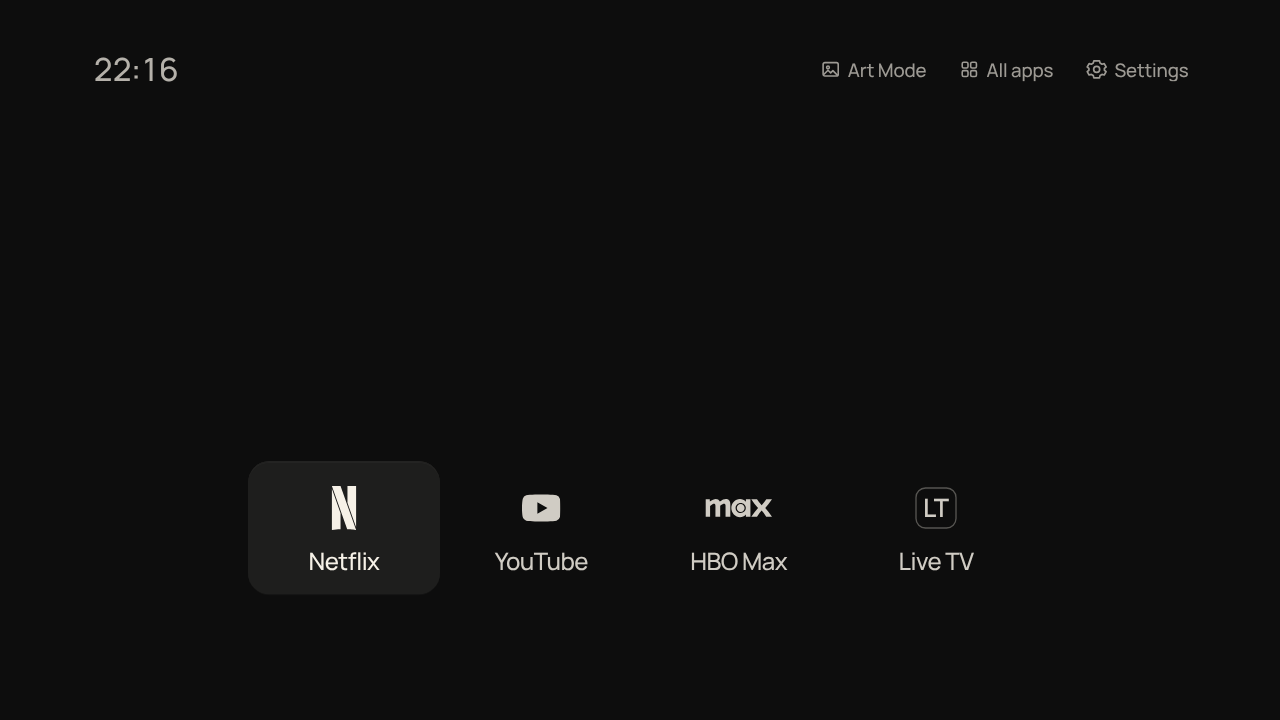
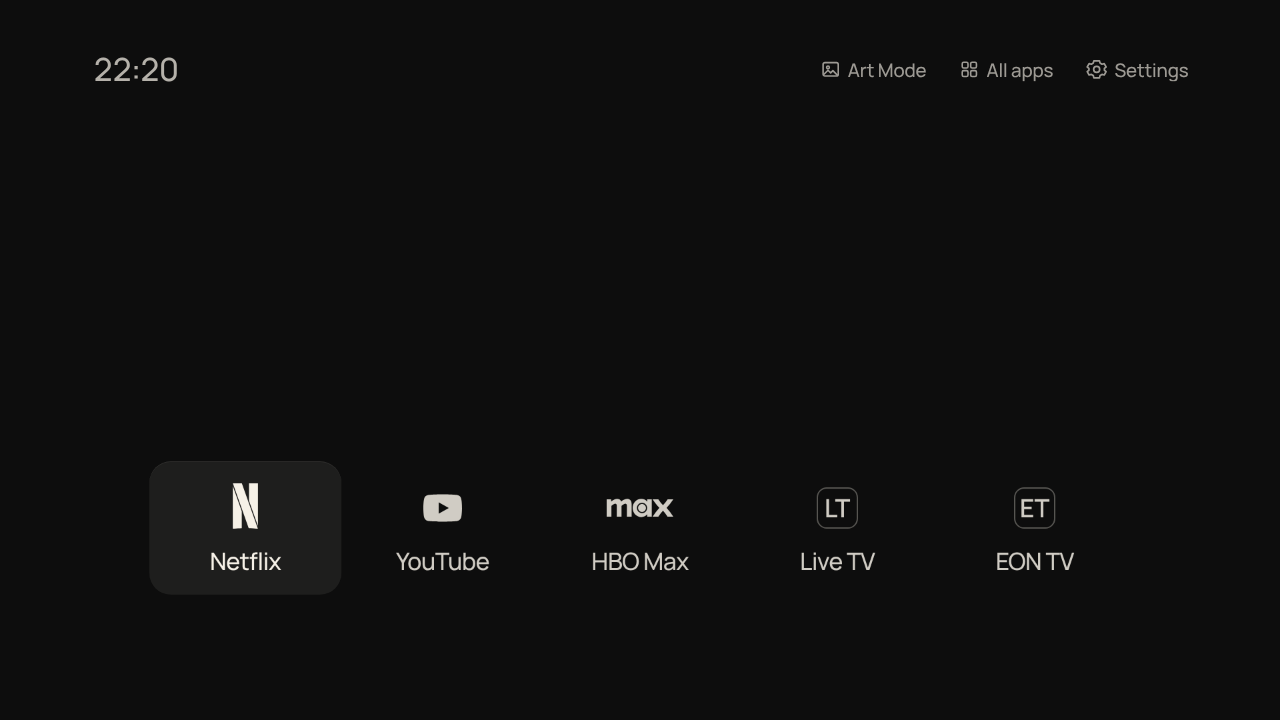
Add EON TV to Dock and restore original animations
- profile.js: EON TV after Live TV with placeholder ID unverified.EONTV
  (no public Tizen ID found; replace via All apps on the TV).
- Remove the lowMotion mode entirely; style.css is identical to upstream
  and REDUCED_MOTION again follows only the system preference.
- check:profile now verifies five Dock apps and original animations;
  screenshots and Croatian notes updated. Samsung Home/store untouched.

Claude-Session: https://claude.ai/code/session_01VejbQkSJgbmfUwo7jBZscL

diff --git a/app/profile.js b/app/profile.js
@@ -4,25 +4,26 @@
    - home/apps/look seed the very first launch only. Once preferences are
      saved under cleanframe.home.v1 they win, and the normal migration and
      validation in main.js still apply to every value below.
-   - clock and lowMotion are display options and apply on every launch. */
+   - clock is a display option and applies on every launch.
+   Animations and effects are unchanged from upstream. */
 (function () {
   'use strict';
   window.CleanFrameProfile = {
     // Dock order, first is selected. Known IDs reuse the built-in catalogue.
-    home: ['netflix', 'youtube', '5b8c3eb16b.BeamCTVDev', 'org.tizen.tv-viewer'],
+    home: ['netflix', 'youtube', '5b8c3eb16b.BeamCTVDev', 'org.tizen.tv-viewer', 'unverified.EONTV'],
     // Apps outside the built-in catalogue, in the saved appRecords shape.
     apps: [
       // HBO Max: the ID device.js already maps to the hbomax brand mark.
       { id: '5b8c3eb16b.BeamCTVDev', appId: '5b8c3eb16b.BeamCTVDev', name: 'HBO Max', brand: 'hbomax' },
       // Live TV: UNVERIFIED native ID. Confirm through All apps on this TV;
       // a wrong ID shows a real launch error, never a simulated success.
-      { id: 'org.tizen.tv-viewer', appId: 'org.tizen.tv-viewer', name: 'Live TV', brand: '' }
+      { id: 'org.tizen.tv-viewer', appId: 'org.tizen.tv-viewer', name: 'Live TV', brand: '' },
+      // EON TV (United Group): PLACEHOLDER ID, no public Tizen ID found.
+      // Replace it via All apps -> Apps on Home on the TV, which uses the real ID.
+      { id: 'unverified.EONTV', appId: 'unverified.EONTV', name: 'EON TV', brand: '' }
     ],
     look: { bg: 'dark', layout: 'dock' },
     // '24h' or '12h'
-    clock: '24h',
-    // Older/slower TV: no animated movement or scaling, no text shadows,
-    // fewer compositor layers. Focus stays visible through opacity/plates.
-    lowMotion: true
+    clock: '24h'
   };
 }());

diff --git a/app/style.css b/app/style.css
@@ -633,11 +633,3 @@ html,body{width:100%;height:100%;overflow:hidden;background:#000}
 .l-list .quiet-utils.is-text .u-content>*+*{margin-left:0;margin-right:0}
 .quiet-utils.is-text .u-content>*+*{margin-left:0}
 .l-list .quiet-utils.is-text .u .u-content>*+*{margin-right:0}
-
-/* profile.js lowMotion: the reduced-motion rules for an older, slower TV,
-   plus fewer paint/compositor costs. Focus feedback remains via opacity. */
-.cf-low-motion .stage,.cf-low-motion .stage *{transition:none!important;animation:none!important;text-shadow:none!important;will-change:auto!important}
-.cf-low-motion .tile .mark,.cf-low-motion .tile .label,.cf-low-motion .gt .mark{transform:none!important;animation:none!important}
-.cf-low-motion .l-list .ph-row,.cf-low-motion .l-list .ph-group,.cf-low-motion .l-list .ph-rows,.cf-low-motion .l-list .ph-plate,.cf-low-motion .l-list .ph-field,.cf-low-motion .l-list .ph-action,.cf-low-motion .quiet-utils .u,.cf-low-motion .quiet-utils .u::after,.cf-low-motion .util-focus-label{transition:opacity 120ms linear!important}
-.cf-low-motion .panel-content,.cf-low-motion .ph-group,.cf-low-motion .tile-content,.cf-low-motion .u-content,.cf-low-motion .util-focus-label,.cf-low-motion .quiet-utils .u .ico{transform:none!important}
-.cf-low-motion .tile-content{transition:opacity 120ms linear!important}

diff --git a/app/main.js b/app/main.js
@@ -71,9 +71,8 @@
 
   /* ---------- State ---------- */
   var PROFILE = window.CleanFrameProfile && typeof window.CleanFrameProfile === 'object' ? window.CleanFrameProfile : {};
-  var LOW_MOTION = PROFILE.lowMotion === true, CLOCK_24 = PROFILE.clock === '24h';
-  if (LOW_MOTION) document.documentElement.className += ' cf-low-motion';
-  var REDUCED_MOTION = LOW_MOTION || !!(window.matchMedia && window.matchMedia('(prefers-reduced-motion: reduce)').matches);
+  var CLOCK_24 = PROFILE.clock === '24h';
+  var REDUCED_MOTION = !!(window.matchMedia && window.matchMedia('(prefers-reduced-motion: reduce)').matches);
   var S = {
     variant: 'B', geom: 'broad', c: null, stack: null,
     sel: null, selIdx: 0, lastUtil: 0, appsFocus: null, settingsFocus: 'background', appearanceFocus: 'bg', detailFocus: {},

diff --git a/docs/samsung-ue50au7172.md b/docs/samsung-ue50au7172.md
@@ -9,27 +9,31 @@ spojeno na TV, a Home ni postavke pokretanja nisu mijenjane.
 ## Što je promijenjeno
 
 - `app/profile.js` (ES5) sadrži sve osobne postavke:
-  - Dock: Netflix, YouTube, HBO Max, Live TV
+  - Dock: Netflix, YouTube, HBO Max, Live TV, EON TV
   - tamna pozadina, raspored Dock
   - `clock: '24h'`
-  - `lowMotion: true`
 - `main.js` koristi aplikacije i izgled iz profila **samo pri prvom
   pokretanju**, kad u `cleanframe.home.v1` nema ničeg spremljenog. Profil
   ide kroz isti `clean()` kao spremljene postavke, pa vrijede iste
   validacije i migracije. Postojeće spremljene postavke uvijek imaju
   prednost.
-- `lowMotion` uključuje postojeća reduced-motion pravila. Uz to uklanja
-  sjene teksta i `will-change` slojeve. Focus pločica i promjena
-  prozirnosti ostaju vidljive.
+- Animacije i efekti su nepromijenjeni, a `style.css` je identičan
+  originalu.
+- Samsung Home, Smart Hub i store ostaju netaknuti. CleanFrame je
+  obična aplikacija. Iz nje se vraćaš preko Back → Samsung Home ili
+  Settings → Samsung.
 
 Za povratak na upstream ponašanje u `profile.js` postavi
-`clock: '12h'` i `lowMotion: false`, ili ukloni `home`.
+`clock: '12h'` ili ukloni `home`.
 
 ## Otvoreno, provjeriti na TV-u
 
 - **Live TV ID `org.tizen.tv-viewer` nije potvrđen.** Na TV-u otvori
   All apps i ondje provjeri pravi ID. Ako je ID pogrešan, OK prikazuje
   stvarnu grešku, a ne lažni uspjeh.
+- **EON TV ID `unverified.EONTV` je privremen.** Javni Tizen ID nije
+  pronađen. Na TV-u ga zamijeni preko All apps → Apps on Home: dodaj
+  pravi EON i ukloni privremeni unos.
 - HBO Max koristi `5b8c3eb16b.BeamCTVDev`, ID koji `device.js` već
   prepoznaje. Na hrvatskom Samsung Storeu može postojati drugi paket
   (npr. `cj37Ni3qXM.HBONow`). Discovery u All apps pokazat će koji je
